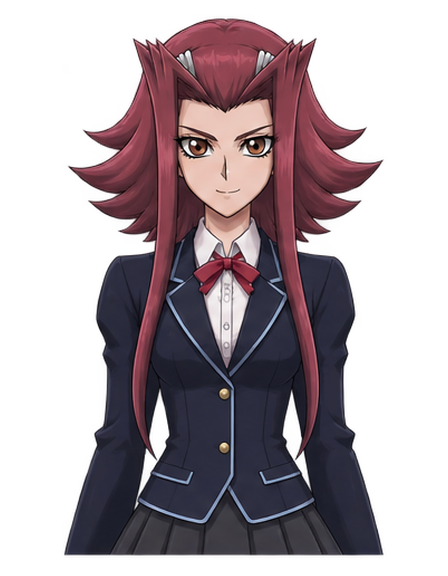
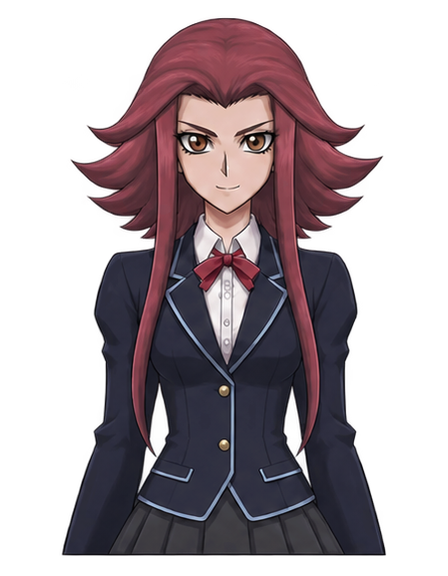
Give Aki an accessory-free hairstyle outside duels

diff --git a/Assets/StreamingAssets/TagForce/UI/RPG-Asset-Credits.md b/Assets/StreamingAssets/TagForce/UI/RPG-Asset-Credits.md
@@ -52,3 +52,5 @@ OpenAI 내장 이미지 생성 도구로 여섯 장을 각각 생성한 뒤 1920
 | 칼리 · 시티 취재 | 짙은 청록 트렌치코트, 복숭아색 스카프, 작은 카메라 가방 | `full_220_press_*`, `sd_220_press_field.png` |
 | 셰리 · 시내 만남 | 남색 롱 블레이저, 엷은 세이지색 스카프, 아이보리 블라우스 | `full_32_city_*`, `sd_32_city_field.png` |
 | 칼리 · 다크 시그너 | 기존 검정과 보라색 의상의 앞·옆·뒤 걸음 | `sd_221_field.png` |
+
+아키의 교복·일상복·훈련복·라이딩복은 동일한 내장 이미지 생성 도구에서 머리 장식만 편집했습니다. 머리핀을 빼고 머리 위의 두 뾰족한 부분을 붉은 앞머리 결에 이어지게 다듬었습니다. 이 설정을 해당 상반신 표정과 SD 보행 시트, 정비소 노을과 다이달로스 브리지 엔딩 CG에도 적용했습니다. 결전복은 장식이 있는 모습을 사용합니다.
